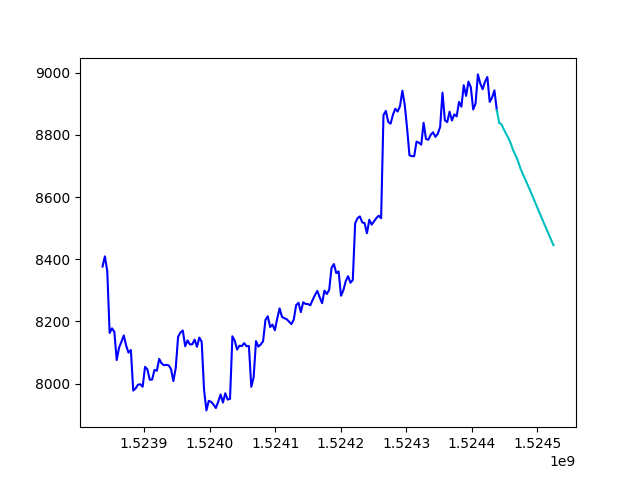
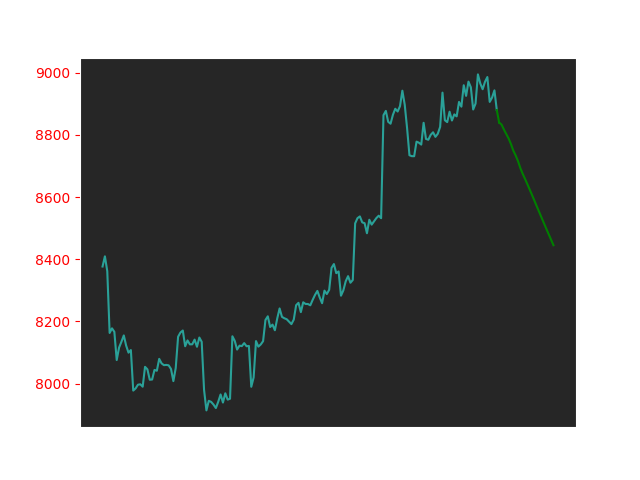
sexy images

diff --git a/src/crypto_models/plot_prices.py b/src/crypto_models/plot_prices.py
@@ -59,9 +59,21 @@ def main():
 
     trans = past_df.tail(1).append(futr_df.head(1))
 
-    plt.plot(past_times, past_df['open'], 'b')
-    plt.plot([past_times[-1], futr_times[0]], trans['open'], 'c')
-    plt.plot(futr_times, futr_df['open'], 'c')
+    # plot lines
+    plt.plot(past_times, past_df['open'], '#2AA198')
+    plt.plot([past_times[-1], futr_times[0]], trans['open'], 'g')
+    plt.plot(futr_times, futr_df['open'], 'g')
+
+    # pretty up
+    ax = plt.gca()
+    ax.set_facecolor('#262626')
+    for idx in ['top','bottom','left','right']:
+        ax.spines[idx].set_color('white')
+    ax.xaxis.label.set_color('white')
+    ax.yaxis.label.set_color('white')
+    ax.tick_params(axis='x', colors='white')
+    ax.tick_params(axis='y', colors='red')
+    
     plt.savefig("../django/portfolio/static/portfolio/"+argcurrencyname+"_plot.png")
 
 if __name__ == "__main__":
